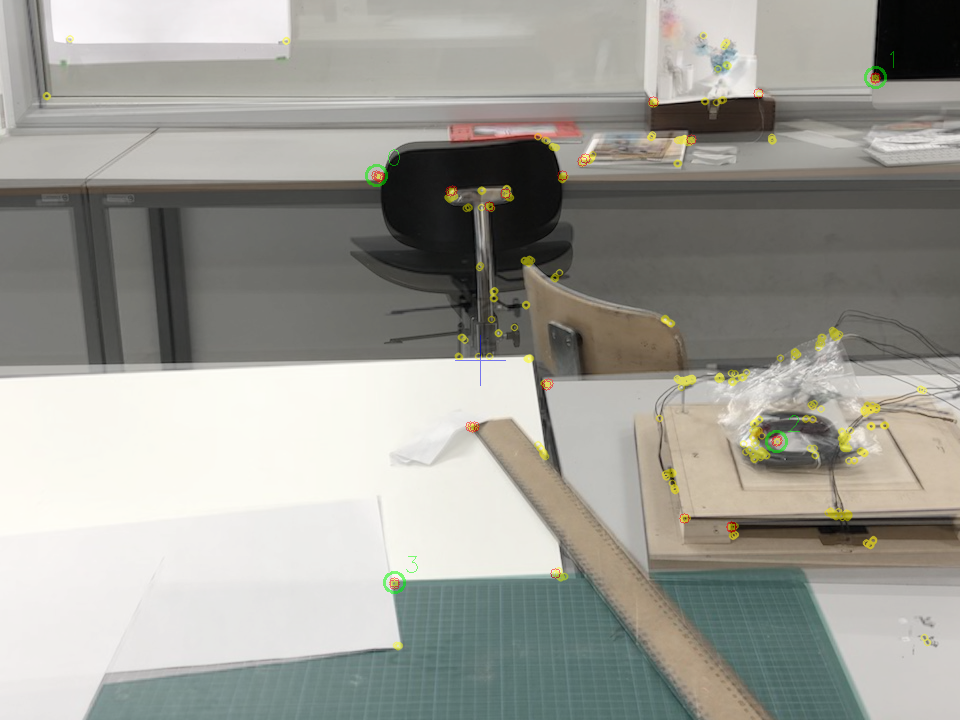
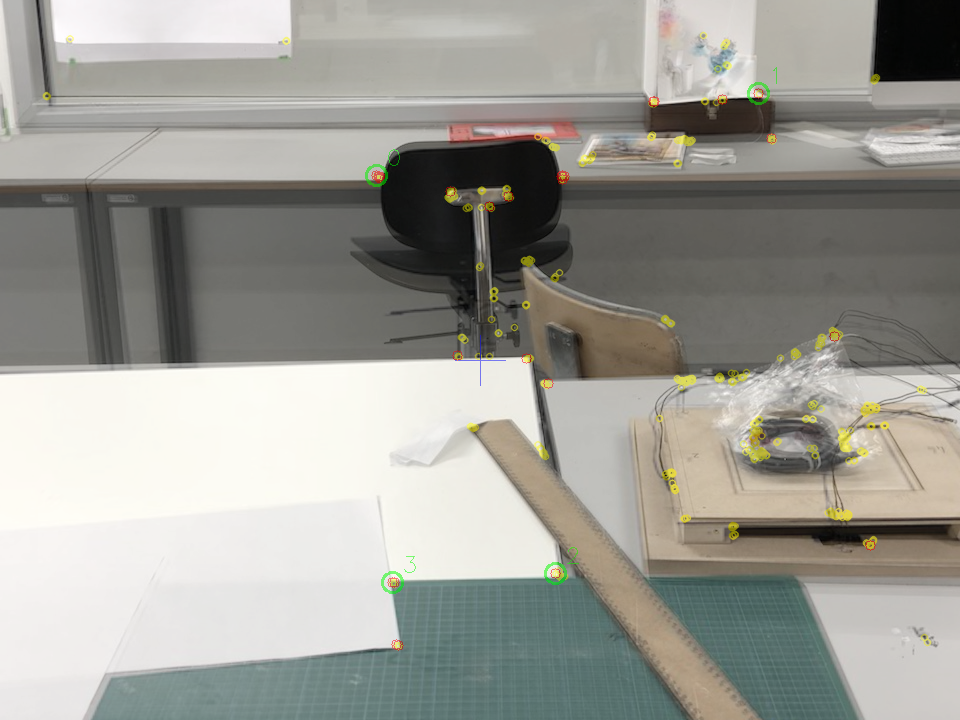
added similarity measurement

diff --git a/src/test/kotlin/ch/bildspur/ivat/SingleTransformTest.kt b/src/test/kotlin/ch/bildspur/ivat/SingleTransformTest.kt
@@ -2,6 +2,7 @@ package ch.bildspur.ivat
 
 import ch.bildspur.ivat.vision.SimplePerspectiveTransformer
 import ch.bildspur.ivat.vision.copy
+import ch.bildspur.ivat.vision.format
 import ch.bildspur.ivat.vision.zeros
 import org.junit.Before
 import org.junit.Test
@@ -53,7 +54,11 @@ class SingleTransformTest {
         // create image blend
         Core.addWeighted(train, 0.5, result, 0.5, 0.0, blend)
 
-        // show images¨
+        // calculate difference
+        val similarity = measureSimilarity(train, result)
+        println("Similar: ${(similarity * 100.0).format(2)}%")
+
+        // show images
         HighGui.imshow("train", train)
         HighGui.imshow("query", query)
         HighGui.imshow("result", result)
@@ -65,5 +70,23 @@ class SingleTransformTest {
         Imgcodecs.imwrite("data/result/blend.png", blend)
 
         HighGui.waitKey()
+    }
+
+    private fun measureSimilarity(original : Mat, copy : Mat, maxDelta : Double = 5.0) : Double
+    {
+        var similarityCounter = 0
+        for(y in 0 until original.height())
+        {
+            for(x in 0 until original.width())
+            {
+                val originalColor = original[y, x][0]
+                val copyColor = copy[y, x][0]
+
+                if(Math.abs(originalColor - copyColor) < maxDelta)
+                    similarityCounter++
+            }
+        }
+
+        return similarityCounter.toDouble() / (original.width() * original.height())
     }
 }

diff --git a/src/main/kotlin/ch/bildspur/ivat/vision/SimplePerspectiveTransformer.kt b/src/main/kotlin/ch/bildspur/ivat/vision/SimplePerspectiveTransformer.kt
@@ -7,6 +7,7 @@ import org.opencv.core.*
 import org.opencv.features2d.BFMatcher
 import org.opencv.features2d.Features2d
 import org.opencv.features2d.ORB
+import org.opencv.features2d.ORB.FAST_SCORE
 import org.opencv.features2d.ORB.HARRIS_SCORE
 import org.opencv.imgproc.Imgproc
 
@@ -21,8 +22,8 @@ class SimplePerspectiveTransformer(private val nTopFeatures: Int = 20) : Perspec
 
         // setup detector and matcher
         detector = FeatureDetector(
-                ORB.create(500, 1.2f, 8, 31, 0, 2, HARRIS_SCORE, 31, 20))
-        matcher = BinaryFeatureMatcher(BFMatcher.create(Core.NORM_HAMMING, true)!!)
+                ORB.create(500, 1.2f, 8, 31, 0, 4, HARRIS_SCORE, 31, 20))
+        matcher = BinaryFeatureMatcher(BFMatcher.create(Core.NORM_HAMMING2, true)!!)
     }
 
     override fun detectTransformMatrix(query: Mat, train: Mat): Mat {
